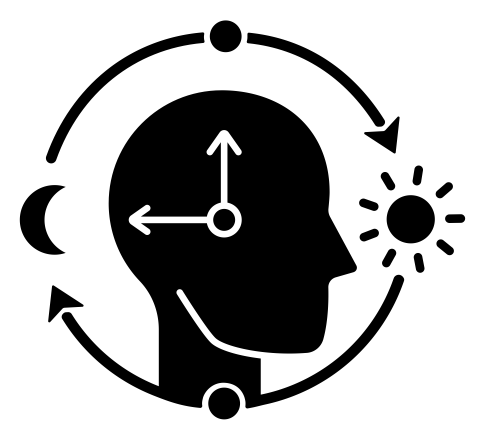
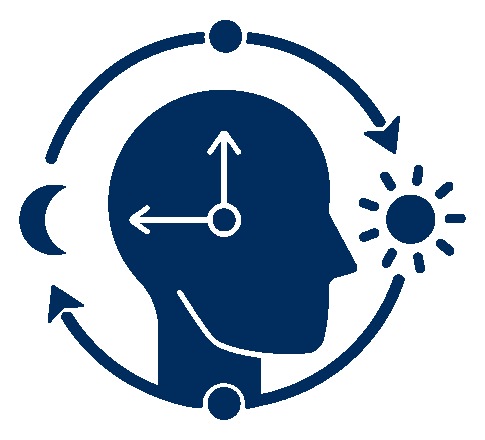
consolidated hero image into single SVG

diff --git a/docs/stylesheets/hero-image.css b/docs/stylesheets/hero-image.css
@@ -4,63 +4,21 @@
 }
 
 .hero-block .hero-monitor {
-    max-width: 285px;
-    max-height: 400px;
+    width: 279px;
+    height: 400px;
     margin: 0 auto;
 }
-.hero-block .ekg-underlay {
+
+object.hero-image {
     display: block:
     padding: 0 auto;
     margin-left: auto;
     margin-right: auto;
     width: 100%;
     height: 100%;
-    z-index: -1;
 }
 
-.hero-block svg {
-    padding: 0;
-    max-height: 105px; /* to fill magnifying glass as much as possible */
-    margin: 0;
-    position: relative;
-    top: -235px;
-    left: -13px;
-    transition: all 0.5s ease-in-out;
-    z-index: 0;
-}
-
-.hero-block svg .ekg {
-    fill: none;
-    stroke: #00cc00; /* strong lime green */
-    stroke-width: 8;
-    stroke-linecap: round;
-    stroke-linejoin: miter;
-    opacity: 0;
-    stroke-dashoffset: 1000;
-    stroke-dasharray: 1000;
-    animation: ekg 1.5s linear forwards infinite; /* 40 bpm - low end of normal sleeping heart rate */
-}
-
-@keyframes ekg {
-    0% {
-        opacity: 0;
-    }
-    25% {
-        opacity: 1;
-    }
-    50% {
-        stroke-dashoffset: 2000;
-    }
-    99% {
-        opacity: 0;
-        stroke-dashoffset: 3000;
-    }
-    100% {
-        stroke-dashoffset: 1000;
-    }
-}
-
-.hero-block .hero-tagline {
+p.hero-tagline {
     text-align: center;
     font-weight: bold;
     font-size: larger;

diff --git a/docs/snippets/hero-image.md b/docs/snippets/hero-image.md
@@ -1,13 +1,11 @@
 <div class="hero-block">
   <div class="hero-monitor">
-      <img class="ekg-underlay" alt="human-heart-cutaway-w-mag" src="images/human-heart-cutaway-w-mag.png" />
-      <svg class="ekg" version="1.1" xmlns="http://www.w3.org/2000/svg" xmlns:xlink="http://www.w3.org/1999/xlink"
-          viewBox="0 0 500 200" xml:space="preserve">
-        <g>
-            <polyline class="ekg" points="366.6,113.8 328.2,113.8 310.3,132.3 296,70.7 246.8,127.4 241.6,120.2 233.9,166.4
-                227,27.6 213.2,118.3 211.8,112.3 205.1,126.1 198.2,108.5 194.1,124.4 184.5,92.9 174.1,113 144.3,113"/>
-        </g>
-      </svg>
+    <!--
+      Must use an "object" tag rather than an "img" tag because the Scalable Vector Graphics (SVG) includes an embedded image element, which is not rendered by img.
+    -->
+    <object class="hero-image" type="image/svg+xml" typemustmatch="true" data="images/hero-heart.svg" >
+      Your browser does not support SVG.
+    </object>
   </div>
   <p class="hero-tagline">
     A platform for chronobiometric analysis
